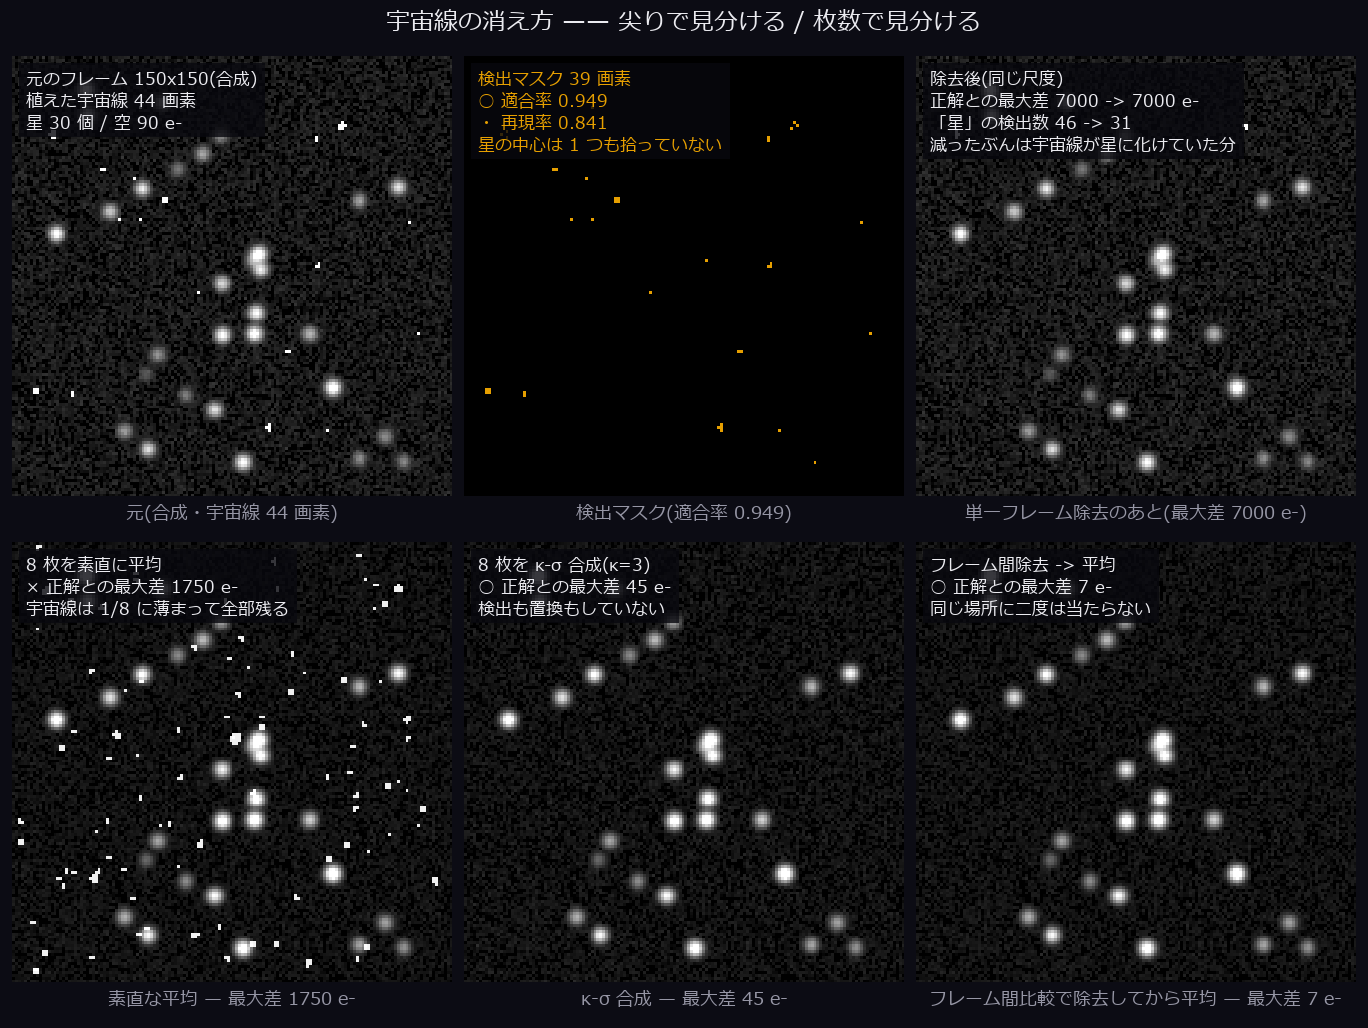
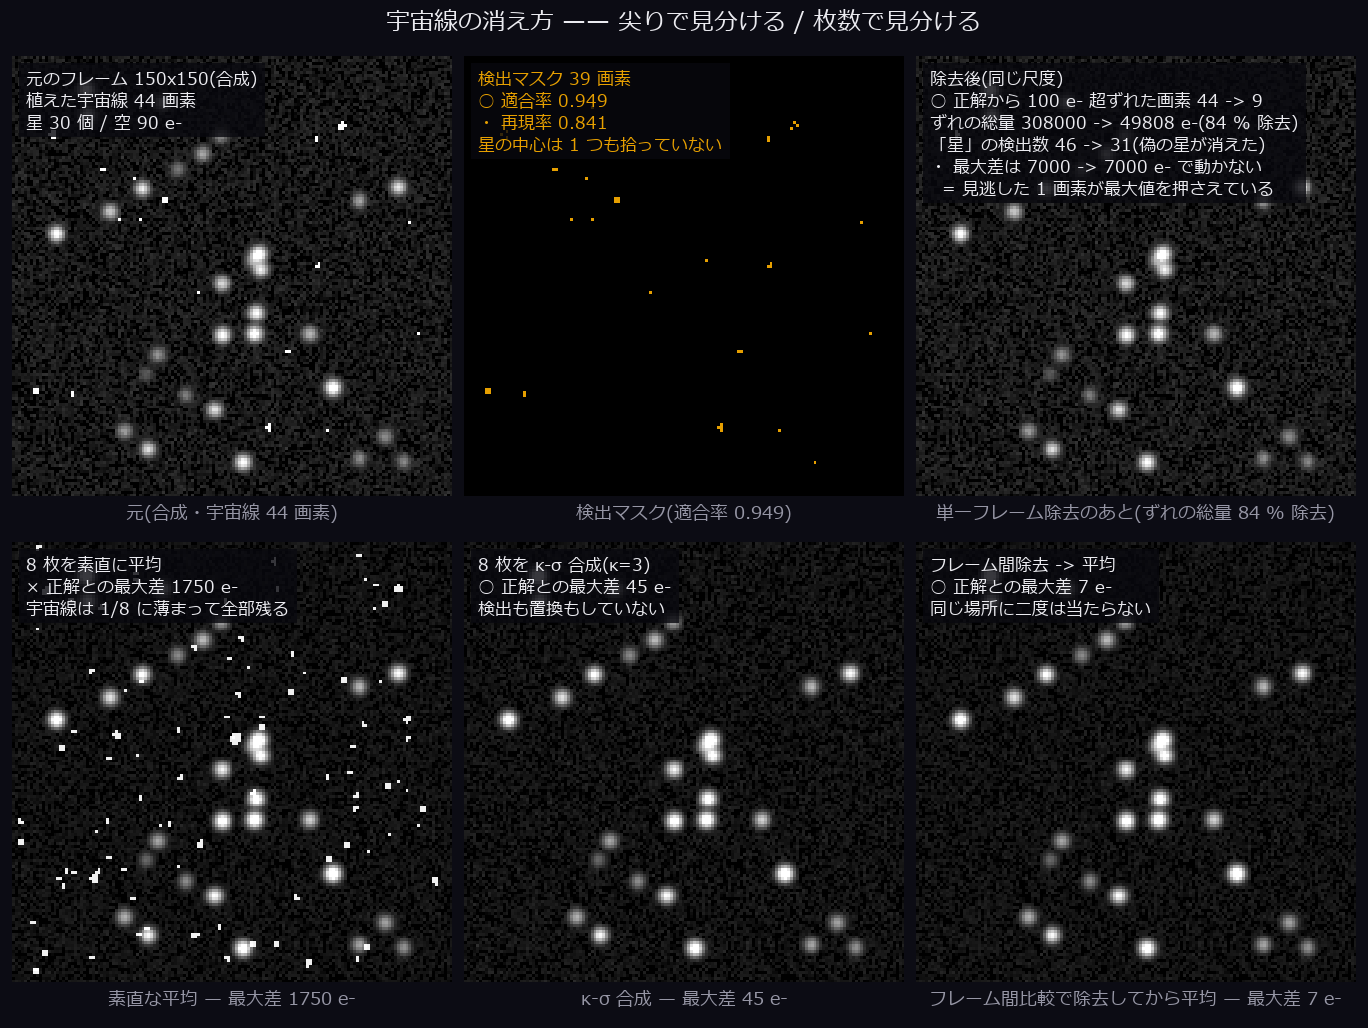
auto: gen_wingastro_gallery.py 編集前 (2026-09-02 08:01)

Changed region(s): [[0.6754, 0.0623, 0.9518, 0.2179], [0.7368, 0.4669, 0.9518, 0.5292]]

diff --git a/tools/gen_wingastro_gallery.py b/tools/gen_wingastro_gallery.py
@@ -1154,16 +1154,21 @@ def _captions(meta):
         "image finds %d pixels against the %d planted — precision **%.3f**, "
         "recall **%.3f** — and the point is that it flags no star core at all. "
         "Because the data is synthetic we can also make the same exposure "
-        "*without* the cosmic rays, so the largest departure from the truth is "
-        "quotable: %.0f e- before, %.0f e- after. (**The frame maximum cannot "
-        "say this** — that is the brightest star, and it barely moves.) With "
-        "several frames it is easier still: plainly averaging %d frames only "
-        "dilutes each hit to 1/%d and still lands %.0f e- from the truth, while "
-        "a kappa-sigma combine reaches %.0f e- with no detection or replacement "
-        "at all, and rejecting frame-to-frame first reaches %.0f e-."
+        "*without* the cosmic rays and measure the departure from the truth "
+        "directly: pixels more than %.0f e- off drop from %d to %d, and "
+        "**%.0f %% of the total departure is removed**. Note what must *not* be "
+        "quoted here — the frame maximum, which goes %.0f to %.0f e- and barely "
+        "moves, because it belongs to the brightest star and because one missed "
+        "pixel pins it as long as recall is below 1. With several frames it is "
+        "easier still: plainly averaging %d frames only dilutes each hit to "
+        "1/%d and still lands %.0f e- from the truth, while a kappa-sigma "
+        "combine reaches %.0f e- with no detection or replacement at all, and "
+        "rejecting frame-to-frame first reaches %.0f e-."
         % (c["detected_px"], c["truth_px"], c["precision"], c["recall"],
-           c["residual_raw"], c["residual_cleaned"], c["n_frames"],
-           c["n_frames"], c["err_naive"], c["err_clipped"], c["err_fixed"]))
+           c["bad_threshold"], c["n_bad_raw"], c["n_bad_cleaned"],
+           c["removed_pct"], c["residual_raw"], c["residual_cleaned"],
+           c["n_frames"], c["n_frames"], c["err_naive"], c["err_clipped"],
+           c["err_fixed"]))
 
     z = d["drizzle_flux"]
     add("drizzle_flux",

diff --git a/docs/articles/exhibits/wingastro.ja.md b/docs/articles/exhibits/wingastro.ja.md
@@ -14,7 +14,7 @@
 
 [![宇宙線の消え方 —— 尖りで見分ける / 枚数で見分ける](https://raw.githubusercontent.com/furuse-kazufumi/fullseye/master/docs/articles/assets/wingastro_cosmic_thumb.jpg)](https://raw.githubusercontent.com/furuse-kazufumi/fullseye/master/docs/articles/assets/wingastro_cosmic.png)
 
-*↑ **宇宙線の消え方 —— 尖りで見分ける / 枚数で見分ける** ―― 宇宙線は光学系を通っていないので**星より尖る**。ラプラシアンを 2 倍標本化して微細構造と比べると、植えた 44 画素に対し 39 画素を検出して適合率 **0.949** / 再現率 **0.841** ―― 星の中心を 1 つも拾わないことが要点。合成なので「宇宙線だけ無い同じ観測」を作れて、正解との最大差が 7000 -> 7000 e- に落ちることまで言える(**フレームの最大値では言えない** —— それは一番明るい星の値であって、除去の前後でほとんど動かない)。枚数がある場合はもっと簡単で、8 枚を素直に平均しても宇宙線は 1/8 に薄まって残り正解から 1750 e- ずれるのに対し、κ-σ 合成は検出も置換もせずに 45 e-、フレーム間比較で先に除去すれば 7 e- になる。使用 op: `synth_starfield`, `cosmic_ray_reject`, `cosmic_ray_reject_stack`, `sigma_clip_stack`, `star_detect`。*
+*↑ **宇宙線の消え方 —— 尖りで見分ける / 枚数で見分ける** ―― 宇宙線は光学系を通っていないので**星より尖る**。ラプラシアンを 2 倍標本化して微細構造と比べると、植えた 44 画素に対し 39 画素を検出して適合率 **0.949** / 再現率 **0.841** ―― 星の中心を 1 つも拾わないことが要点。合成なので「宇宙線だけ無い同じ観測」を作れて、**正解からのずれそのもの**を測れる: 100 e- 以上ずれた画素は 44 -> 9、ずれの総量は **84 % 除去**される。ここで**フレームの最大値を指標にしてはいけない** —— それは一番明るい星の値で、除去の前後で 7000 -> 7000 e- と動かない(再現率が 1 未満である限り、見逃した 1 画素が最大値を押さえ続ける)。枚数がある場合はもっと簡単で、8 枚を素直に平均しても宇宙線は 1/8 に薄まって残り正解から 1750 e- ずれるのに対し、κ-σ 合成は検出も置換もせずに 45 e-、フレーム間比較で先に除去すれば 7 e- になる。使用 op: `synth_starfield`, `cosmic_ray_reject`, `cosmic_ray_reject_stack`, `sigma_clip_stack`, `star_detect`。*
 
 [![drizzle は面積を保存する](https://raw.githubusercontent.com/furuse-kazufumi/fullseye/master/docs/articles/assets/wingastro_drizzle_flux_thumb.jpg)](https://raw.githubusercontent.com/furuse-kazufumi/fullseye/master/docs/articles/assets/wingastro_drizzle_flux.png)
 

diff --git a/docs/articles/exhibits/wingastro.en.md b/docs/articles/exhibits/wingastro.en.md
@@ -14,7 +14,7 @@
 
 [![How a cosmic ray disappears — by sharpness, or by counting frames](https://raw.githubusercontent.com/furuse-kazufumi/fullseye/master/docs/articles/assets/wingastro_cosmic_thumb.jpg)](https://raw.githubusercontent.com/furuse-kazufumi/fullseye/master/docs/articles/assets/wingastro_cosmic.png)
 
-*↑ **How a cosmic ray disappears — by sharpness, or by counting frames** — A cosmic ray never went through the optics, so **it is sharper than a star**. Comparing a 2x-subsampled Laplacian against the fine-structure image finds 39 pixels against the 44 planted — precision **0.949**, recall **0.841** — and the point is that it flags no star core at all. Because the data is synthetic we can also make the same exposure *without* the cosmic rays, so the largest departure from the truth is quotable: 7000 e- before, 7000 e- after. (**The frame maximum cannot say this** — that is the brightest star, and it barely moves.) With several frames it is easier still: plainly averaging 8 frames only dilutes each hit to 1/8 and still lands 1750 e- from the truth, while a kappa-sigma combine reaches 45 e- with no detection or replacement at all, and rejecting frame-to-frame first reaches 7 e-. Ops used: `synth_starfield`, `cosmic_ray_reject`, `cosmic_ray_reject_stack`, `sigma_clip_stack`, `star_detect`.*
+*↑ **How a cosmic ray disappears — by sharpness, or by counting frames** — A cosmic ray never went through the optics, so **it is sharper than a star**. Comparing a 2x-subsampled Laplacian against the fine-structure image finds 39 pixels against the 44 planted — precision **0.949**, recall **0.841** — and the point is that it flags no star core at all. Because the data is synthetic we can also make the same exposure *without* the cosmic rays and measure the departure from the truth directly: pixels more than 100 e- off drop from 44 to 9, and **84 % of the total departure is removed**. Note what must *not* be quoted here — the frame maximum, which goes 7000 to 7000 e- and barely moves, because it belongs to the brightest star and because one missed pixel pins it as long as recall is below 1. With several frames it is easier still: plainly averaging 8 frames only dilutes each hit to 1/8 and still lands 1750 e- from the truth, while a kappa-sigma combine reaches 45 e- with no detection or replacement at all, and rejecting frame-to-frame first reaches 7 e-. Ops used: `synth_starfield`, `cosmic_ray_reject`, `cosmic_ray_reject_stack`, `sigma_clip_stack`, `star_detect`.*
 
 [![Drizzle conserves area](https://raw.githubusercontent.com/furuse-kazufumi/fullseye/master/docs/articles/assets/wingastro_drizzle_flux_thumb.jpg)](https://raw.githubusercontent.com/furuse-kazufumi/fullseye/master/docs/articles/assets/wingastro_drizzle_flux.png)
 
